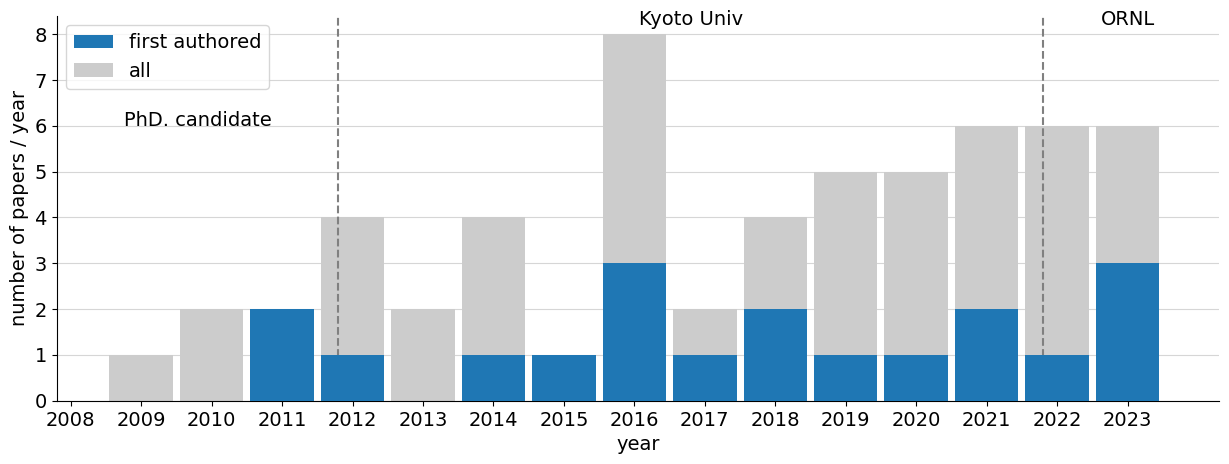
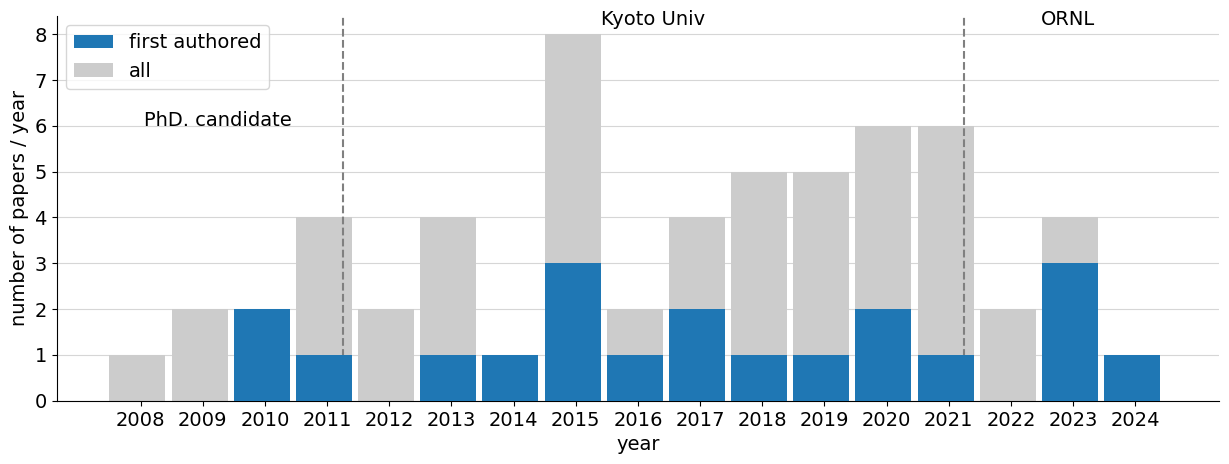
Updating after RSI publication

Changed region(s): [[0.0309, 0.0302, 0.9585, 0.9353], [0.8348, 0.0, 0.9585, 0.0603], [0.0928, 0.2414, 0.2474, 0.2716]]

diff --git a/make_figures.py b/make_figures.py
@@ -7,6 +7,8 @@ import seaborn as sns
 
 matplotlib.rc('font', size=14)
 
+bins = np.arange(2007, datetime.date.today().year + 1) + 0.5
+bin_centers = ((bins[1:] + bins[:-1]) / 2).astype(int)
 
 # Events
 positions = [
@@ -51,12 +53,10 @@ for i in range(0, len(lines) - 5, 5):
     papers.append(1)
 years = np.concatenate([first_years, coaut_years])
 
-bins = np.arange(np.min(years), np.max(years) + 1)
-
 plt.figure(figsize=(15, 5))
 plt.hist(first_years, bins=bins, color='C0', width=0.9, label='first authored', zorder=3)
 plt.hist(years, bins=bins, color='0.8', width=0.9, label='all', zorder=1,)
-plt.xticks(bins - 0.55, ['{}'.format(b) for b in bins]) 
+plt.xticks(bin_centers, ['{}'.format(b) for b in bin_centers]) 
 plt.gca().yaxis.grid(color='0.8', alpha=0.8)
 plt.xlabel('year')
 plt.ylabel('number of papers / year')
@@ -100,7 +100,7 @@ plt.figure(figsize=(15, 5))
 plt.hist(years, bins=bins, color='0.8', width=0.9, label='poster', zorder=1)
 plt.hist([y for y, t in zip(years, talk_types) if t in ['oral', 'invited']], bins=bins, color='C0', width=0.9, label='oral', zorder=2)
 plt.hist([y for y, t in zip(years, talk_types) if t == 'invited'], bins=bins, color='C1', width=0.9, label='invited', zorder=3)
-plt.xticks(bins - 0.55, ['{}'.format(b) for b in bins]) 
+plt.xticks(bin_centers, ['{}'.format(b) for b in bin_centers]) 
 plt.gca().yaxis.grid(color='0.8', alpha=0.8)
 plt.xlabel('year')
 plt.gca().yaxis.set_major_locator(MaxNLocator(integer=True))
@@ -140,7 +140,7 @@ for line in lines[1:]:
 
 plt.figure(figsize=(15, 5))
 plt.hist(years, bins=bins, color='C0', width=0.9)
-plt.xticks(bins - 0.55, ['{}'.format(b) for b in bins]) 
+plt.xticks(bin_centers, ['{}'.format(b) for b in bin_centers]) 
 plt.gca().yaxis.grid(color='0.8', alpha=0.8)
 plt.xlabel('year')
 plt.gca().yaxis.set_major_locator(MaxNLocator(integer=True))

diff --git a/publications/index.md b/publications/index.md
@@ -29,97 +29,102 @@ layout: publications
 <a href="https://doi.org/10.1063/1.4863650">10.1063/1.4863650</a>  
 
 # List of papers (first- and corresponding-author)
-1. **Plasma-parameter dependence of ro-vibrational temperatures for H2 in LHD divertor**  
+1. **Conceptual design of a Doppler spectrometer for 102 m/s cross-field flows in tokamak divertors**  
+ **<u>K. Fujii</u>**, R. Sano, T. Nakano, G. Ronchi, J.-S. Park, J. D. Lore, M. Shafer, T. M. Biewer  
+ *Review of Scientific Instruments* **95,** 073527 (2024)  
+<a href="https://doi.org/10.1063/5.0219456">10.1063/5.0219456</a>  
+
+2. **Plasma-parameter dependence of ro-vibrational temperatures for H2 in LHD divertor**  
  **<u>Keisuke Fujii</u>**, Tsubasa Oshioka, Atsushi Niihama, Arseniy Kuzmin, Taiichi Shikama, Masahiro Kobayashi, Masahiro Hasuo  
  *Journal of Quantitative Spectroscopy and Radiative Transfer* **310,** 108751 (2023)  
 <a href="https://doi.org/10.1016/j.jqsrt.2023.108751">10.1016/j.jqsrt.2023.108751</a>  
 
-2. **Collisional-energy-cascade model for nonthermal velocity distributions of neutral atoms in plasmas**  
+3. **Collisional-energy-cascade model for nonthermal velocity distributions of neutral atoms in plasmas**  
  **<u>Keisuke Fujii</u>**  
  *Physical Review E* **108,** 025204 (2023)  
 <a href="https://doi.org/10.1103/PhysRevE.108.025204">10.1103/PhysRevE.108.025204</a>  
 
-3. **A simple data-driven level finding method of many-electron atoms and heavy nuclei based on statistical outlier detection**  
+4. **A simple data-driven level finding method of many-electron atoms and heavy nuclei based on statistical outlier detection**  
  Kazuaki Hongu, **<u>Keisuke Fujii</u>**  
  *Journal of Physics D: Applied Physics* **56,** 244002 (2023)  
 <a href="https://doi.org/10.1088/1361-6463/acc66f">10.1088/1361-6463/acc66f</a>  
 
-4. **Power-Law Intensity Distribution of γ-Decay Cascades: Nuclear Structure as a Scale-Free Random Network**  
+5. **Power-Law Intensity Distribution of γ-Decay Cascades: Nuclear Structure as a Scale-Free Random Network**  
  **<u>Keisuke Fujii</u>**, Julian C. Berengut  
  *Physical Review Letters* **126,** 102502 (2021)  
 <a href="https://doi.org/10.1103/PhysRevLett.126.102502">10.1103/PhysRevLett.126.102502</a>  
 
-5. **Population kinetics of many-electron atoms in ionizing plasmas studied using a continuous collisional radiative model**  
+6. **Population kinetics of many-electron atoms in ionizing plasmas studied using a continuous collisional radiative model**  
  Akira Nishio, Julian C. Berengut, Masahiro Hasuo, **<u>Keisuke Fujii</u>**  
  *Physical Review E* **102,** 053211 (2020)  
 <a href="https://doi.org/10.1103/PhysRevE.102.053211">10.1103/PhysRevE.102.053211</a>  
 
-6. **Simple Explanation for the Observed Power Law Distribution of Line Intensity in Complex Many-Electron Atoms**  
+7. **Simple Explanation for the Observed Power Law Distribution of Line Intensity in Complex Many-Electron Atoms**  
  **<u>Keisuke Fujii</u>**, Julian C. Berengut  
  *Physical Review Letters* **124,** 185002 (2020)  
 <a href="https://doi.org/10.1103/physrevlett.124.185002">10.1103/physrevlett.124.185002</a>  
 
-7. **Robust Regression for Automatic Fusion Plasma Analysis Based on Generative Modeling**  
+8. **Robust Regression for Automatic Fusion Plasma Analysis Based on Generative Modeling**  
  **<u>K. Fujii</u>**, C. Suzuki, M. Hasuo  
  *IEEE Transactions on Plasma Science* **47,** 3305-3314 (2019)  
 <a href="https://doi.org/10.1109/TPS.2019.2921073">10.1109/TPS.2019.2921073</a>  
 
-8. **Machine Learning of Noise in LHD Thomson Scattering System**  
+9. **Machine Learning of Noise in LHD Thomson Scattering System**  
  **<u>Keisuke Fujii</u>**, Ichihiro Yamada, Masahiro Hasuo  
  *Fusion Science and Technology* **74,** 57-64 (2018)  
 <a href="https://doi.org/10.1080/15361055.2017.1396179">10.1080/15361055.2017.1396179</a>  
 
-9. **Experimental evaluation of fractional abundance data for W23+–W28+**  
+10. **Experimental evaluation of fractional abundance data for W23+–W28+**  
  **<u>Keisuke Fujii</u>**, Daiji Kato, Nobuyuki Nakamura, Motoshi Goto, Shigeru Morita, Masahiro Hasuo  
  *Journal of Physics B: Atomic, Molecular and Optical Physics* **50,** 055004 (2017)  
 <a href="https://doi.org/10.1088/1361-6455/50/5/055004">10.1088/1361-6455/50/5/055004</a>  
 
-10. **Data-driven sensitivity inference for Thomson scattering electron density measurement systems**  
+11. **Data-driven sensitivity inference for Thomson scattering electron density measurement systems**  
  **<u>Keisuke Fujii</u>**, Ichihiro Yamada, Masahiro Hasuo  
  *Review of Scientific Instruments* **88,** 013508 (2017)  
 <a href="https://doi.org/10.1063/1.4974344">10.1063/1.4974344</a>  
 
-11. **Inversion Methods of the Balmer-α Line Profile for Hydrogen Atom Density Evaluation in High-Temperature Plasmas**  
+12. **Inversion Methods of the Balmer-α Line Profile for Hydrogen Atom Density Evaluation in High-Temperature Plasmas**  
  **<u>Keisuke Fujii</u>**, Motoshi Goto, Shigeru Morita, Masahiro Hasuo  
  *Fusion Science and Technology* **69,** 514-525 (2016)  
 <a href="https://doi.org/10.13182/FST15-168">10.13182/FST15-168</a>  
 
-12. **Visible emission spectroscopy of highly charged tungsten ions in LHD: II. Evaluation of tungsten ion temperature**  
+13. **Visible emission spectroscopy of highly charged tungsten ions in LHD: II. Evaluation of tungsten ion temperature**  
  **<u>K Fujii</u>**, Y Takahashi, Y Nakai, D Kato, M Goto, S Morita, M Hasuo  
  *Physica Scripta* **90,** 125403 (2015)  
 <a href="https://doi.org/10.1088/0031-8949/90/12/125403">10.1088/0031-8949/90/12/125403</a>  
 
-13. **Visible emission spectroscopy of highly charged tungsten ions in LHD: I. Survey of new visible emission lines**  
+14. **Visible emission spectroscopy of highly charged tungsten ions in LHD: I. Survey of new visible emission lines**  
  M Shinohara, **<u>K Fujii</u>**, D Kato, N Nakamura, M Goto, S Morita, M Hasuo  
  *Physica Scripta* **90,** 125402 (2015)  
 <a href="https://doi.org/10.1088/0031-8949/90/12/125402">10.1088/0031-8949/90/12/125402</a>  
 
-14. **Study of neutral hydrogen transport in LHD core plasmas based on high dynamic-range Balmer-αspectroscopy**  
+15. **Study of neutral hydrogen transport in LHD core plasmas based on high dynamic-range Balmer-αspectroscopy**  
  **<u>K. Fujii</u>**, M. Goto, S. Morita,  The LHD Experiment Group  
  *Nuclear Fusion* **55,** 063029 (2015)  
 <a href="https://doi.org/10.1088/0029-5515/55/6/063029">10.1088/0029-5515/55/6/063029</a>  
 
-15. **Development of a high dynamic range spectroscopic system for observation of neutral hydrogen atom density distribution in Large Helical Device core plasma**  
+16. **Development of a high dynamic range spectroscopic system for observation of neutral hydrogen atom density distribution in Large Helical Device core plasma**  
  **<u>K. Fujii</u>**, S. Atsumi, S. Watanabe, T. Shikama, M. Goto, S. Morita, M. Hasuo  
  *Review of Scientific Instruments* **85,** 023502 (2014)  
 <a href="https://doi.org/10.1063/1.4863650">10.1063/1.4863650</a>  
 
-16. **Hydrogen transport diagnostics by atomic and molecular emission line profiles simultaneously measured for large helical device**  
+17. **Hydrogen transport diagnostics by atomic and molecular emission line profiles simultaneously measured for large helical device**  
  **<u>K. Fujii</u>**, T. Shikama, M. Goto, S. Morita, M. Hasuo  
  *Physics of Plasmas* **20,** 012514 (2013)  
 <a href="https://doi.org/10.1063/1.4789454">10.1063/1.4789454</a>  
 
-17. **A Collisional-Radiative Model for Hydrogen Atom Including Velocity Changing Collisions**  
+18. **A Collisional-Radiative Model for Hydrogen Atom Including Velocity Changing Collisions**  
  **<u>Keisuke FUJII</u>**, Taiichi SHIKAMA, Keiji SAWADA, Motoshi GOTO, Shigeru MORITA, Masahiro HASUO  
  *Plasma and Fusion Research* **6,** 2401125-2401125 (2011)  
 <a href="https://doi.org/10.1585/pfr.6.2401125">10.1585/pfr.6.2401125</a>  
 
-18. **Kinetic energy measurement of hydrogen in LHD peripheral plasma with a multi-wavelength-range fine-resolution spectrometer**  
+19. **Kinetic energy measurement of hydrogen in LHD peripheral plasma with a multi-wavelength-range fine-resolution spectrometer**  
  **<u>Keisuke Fujii</u>**, Keisuke Mizushiri, Tomomi Nishioka, Taiichi Shikama, Atsushi Iwamae, Motoshi Goto, Shigeru Morita, Masahiro Hasuo  
  *Nuclear Instruments and Methods in Physics Research Section A: Accelerators, Spectrometers, Detectors and Associated Equipment* **623,** 690-692 (2010)  
 <a href="https://doi.org/10.1016/j.nima.2010.02.100">10.1016/j.nima.2010.02.100</a>  
 
-19. **Development of multiwavelength-range fine-resolution spectrometer for hydrogen emissions and its application to large helical device periphery plasmas**  
+20. **Development of multiwavelength-range fine-resolution spectrometer for hydrogen emissions and its application to large helical device periphery plasmas**  
  **<u>K. Fujii</u>**, K. Mizushiri, T. Nishioka, T. Shikama, A. Iwamae, M. Goto, S. Morita, S Kado, K. Sawada, M. Hasuo  
  *Review of Scientific Instruments* **81,** 033106 (2010)  
 <a href="https://doi.org/10.1063/1.3356730">10.1063/1.3356730</a>  

diff --git a/talks/index.md b/talks/index.md
@@ -6,95 +6,115 @@ layout: talks
 
 ## Invited talks
 
-1. **Simple Explanation for the Observed Power Law Distribution of Line Intensity in Complex Many-Electron Atoms and Heavy Nuclei**  
+1. **Validating Collision-Radiation-Predissociation Dataset for Molecular Hydrogen with visible emission spectra**  
+*IAEA Technical Meeting on the Collisional-Radiative Properties of Tungsten and Hydrogen in Edge Plasma of Fusion Devices*  
+Vienna, Austria, 2023. Nov.28-Dec.01
+
+2. **Simple Explanation for the Observed Power Law Distribution of Line Intensity in Complex Many-Electron Atoms and Heavy Nuclei**  
 *Atomic Processes in Plasmas*  
 Vienna, Austria, 2023. May.15-May.19
 
-2. **Bayesian Inference for the LHD Experiment Data**  
+3. **Bayesian Inference for the LHD Experiment Data**  
 *IAEA Technical Meeting on Uncertainty Assessment and Benchmark Experiments for Atomic and Molecular Data for Fusion Applications*  
 Vienna, Austria, 2016. Dec.19-Dec.21
 
-3. **Neutral Hydrogen Dynamics in Fusion Core Plasmas Revealed by High Dynamic Range Balmer-α Spectroscopy**  
+4. **Neutral Hydrogen Dynamics in Fusion Core Plasmas Revealed by High Dynamic Range Balmer-α Spectroscopy**  
 *9th International Conference on Atomic and Molecular Data and Their Applications*  
 Jena, Germany, 2014. Sep.21-Sep.25
 
 ## Oral talks
 
-1. **Finding Key Diagnostic Lines for Divertor Molecular Dynamics based on Principal Component Analysis**  
+1. **Experimental Validation of Collision-Radiation-Predissociation Dataset for Molecular Hydrogen and Its Application to Divertor Diagnostics**  
+*APS DPP*  
+Denver CO, United States, 2023. Oct.30-Nov.03
+
+2. **Finding Key Diagnostic Lines for Divertor Molecular Dynamics based on Principal Component Analysis**  
 *Atomic Processes in Plasmas*  
 Vienna, Austria, 2023. May.15-May.19
 
-2. **Steady-state Velocity Distribution of Neutral Atoms with Energy Dissipation**  
+3. **Conceptual Design of Ion Temperature Diagnostics for the PI4 device at General Fusion**  
 *APS Division of Plasma Physics*  
 Spokane, United States, 2022. Oct.17-Oct.21
 
-3. **Power-Law Distribution of Line Intensity in Complex Many-Electron Atoms**  
+4. **Steady-state Velocity Distribution of Neutral Atoms with Energy Dissipation**  
+*APS Division of Plasma Physics*  
+Spokane, United States, 2022. Oct.17-Oct.21
+
+5. **Power-Law Distribution of Line Intensity in Complex Many-Electron Atoms**  
 *APS Division of Atomic Molecular and Optical Physics*  
 Online, United States, 2021. May.31-Jun.04
 
-4. **Electron Density Estimation from Multichannel Laser Interferometer Measurement in LHD with Systematic Bias Compensation**  
+6. **Electron Density Estimation from Multichannel Laser Interferometer Measurement in LHD with Systematic Bias Compensation**  
 *3rd IAEA Technical Meeting on Fusion Data Processing Validation and Analysis*  
 Vienna, Austria, 2019. May.28-May.31
 
-5. **Statistical completion and validation of the NIST Atomic Spectral Database**  
+7. **Statistical completion and validation of the NIST Atomic Spectral Database**  
 *DPG annual conference (Rostock 2019)*  
 Rostock, Germany, 2019. Mar.11-Mar.15
 
-6. **Experimental evaluation of fractional abundance data for W23+ - W28+**  
+8. **Experimental evaluation of fractional abundance data for W23+ - W28+**  
 *The 7 th China-Japan-Korea Joint Seminar on Atomic and Molecular Processes in Plasma (AMPP2018)*  
 Hefei, China, 2018. Jun.24-Jun.26
 
-7. **Automatic Fusion Plasma Data Analysis based on Bayesian Statistics**  
+9. **Automatic Fusion Plasma Data Analysis based on Bayesian Statistics**  
 *1st International Conference on Data-Driven Plasma Science*  
 York, UK, 2018. Jun.11-Jun.13
 
-8. **Machine Learning of Noise in LHD Thomson Scattering System**  
+10. **Machine Learning of Noise in LHD Thomson Scattering System**  
 *2nd IAEA Technical Meeting on the Fusion Data Processing; Validation and Analysis*  
 Boston, USA, 2017. May.30-Jun.02
 
-9. **Measurement of the neutral hydrogen atom density in the LHD core plasmas based on the spectral inversion**  
+11. **Measurement of the neutral hydrogen atom density in the LHD core plasmas based on the spectral inversion**  
 *1st IAEA Technical Meeting on Fusion Data Processing; Validation and Analysis*  
 Nice, France, 2015. Jun.01-Jun.03
 
-10. **Hydrogen atomic and molecular emission locations and intensities in the LHD edge plasma determined from simultaneously observed polarization spectra**  
+12. **Hydrogen atomic and molecular emission locations and intensities in the LHD edge plasma determined from simultaneously observed polarization spectra**  
 *24th International Toki Conference (ITC-24)*  
 Toki, Japan, 2014. Nov.04-Nov.07
 
 ## Posters
 
-1. **Stable energy distribution of radical atoms under collisional energy cascade**  
+1. **Plasma diagnostics based on molecular hydrogen spectrum with detailed collisional-radiative modeling**  
+*26th International Conference on Plasma Surface Interaction in Controlled Fusion Devices*  
+Marseille, France, 2024. May.12-May.17
+
+2. **Conceptual Design of a Doppler Spectrometry for 102-m/s Cross-Field Flows in Tokamak Divertors**  
+*25th Topical Conference on High Temperature Plasma Diagnostics*  
+Asheville NC, United States, 2024. Apr.21-Apr.25
+
+3. **Stable energy distribution of radical atoms under collisional energy cascade**  
 *second annual MagNetUS meeting*  
 Williamsburg, United States, 2022. Jun.07-Jun.10
 
-2. **Statistical Completion and Validation of Atomic Energy Level Database Based on Low Rank Nature of Isoelectronic Sequence**  
+4. **Statistical Completion and Validation of Atomic Energy Level Database Based on Low Rank Nature of Isoelectronic Sequence**  
 *2nd International Conference on Data-Driven Plasma Science*  
 Marseille, France, 2019. May.13-May.17
 
-3. **Automatic Robust Regression Analysis of Fusion Plasma Experiment Data based on Generative Modelling**  
+5. **Automatic Robust Regression Analysis of Fusion Plasma Experiment Data based on Generative Modelling**  
 *45th Conference on Plasma Physics (EPS 2018)*  
 Prague, the Czech Republic, 2018. Jun.02-Jun.06
 
-4. **Study of Neutral Hydrogen Transport in LHD Core Plasmas Based on High Dynamic-Range Balmer-α Spectroscopy**  
+6. **Study of Neutral Hydrogen Transport in LHD Core Plasmas Based on High Dynamic-Range Balmer-α Spectroscopy**  
 *25th IAEA Fusion Energy Conference*  
 St. Petersburg, Russian Ferderation, 2014. Oct.13-Oct.18
 
-5. **Electron Density Dependence of the Neutral Hydrogen Atom Transport in LHD Core Plasmas Studied by Balmer-α Spectroscopy**  
+7. **Electron Density Dependence of the Neutral Hydrogen Atom Transport in LHD Core Plasmas Studied by Balmer-α Spectroscopy**  
 *9th Asia Plasma Fusion and Fusion Association Conference*  
 Gyeongju City, Korea, 2013. Nov.05-Nov.08
 
-6. **Comparison of Balmer-α and -β Line Intensities and Shapes with a Monte-Carlo Neutral Transport Calculation of Large Helical Device**  
+8. **Comparison of Balmer-α and -β Line Intensities and Shapes with a Monte-Carlo Neutral Transport Calculation of Large Helical Device**  
 *20th International Conference on Spectral Line Shapes*  
 Newfoundland, Canada, 2010. Jun.06-Jun.11
 
-7. **Kinetic Energy Measurement of Hydrogen in LHD Peripheral Plasma with a Multi-wavelength-range Fine-resolution Spectrometer**  
+9. **Kinetic Energy Measurement of Hydrogen in LHD Peripheral Plasma with a Multi-wavelength-range Fine-resolution Spectrometer**  
 *1st International Conference on Frontiers in Diagnostic*  
 Frascati, Italy, 2009. Nov.24-Nov.27
 
-8. **Development of a Multi-wavelength-range High-resolution Spectrometer for Hydrogen Emissions and its Application to the LHD Edge Plasma**  
+10. **Development of a Multi-wavelength-range High-resolution Spectrometer for Hydrogen Emissions and its Application to the LHD Edge Plasma**  
 *16th International Conference on Atomic Processes in Plasmas*  
 Monteley, USA, 2009. Mar.22-Mar.26
 
-9. **Spectroscopic Diagnostics of helium discharge produced during sucrose triboluminescence**  
+11. **Spectroscopic Diagnostics of helium discharge produced during sucrose triboluminescence**  
 *14th International Congress on Plasma Physics (ICPP)*  
 Fukuoka, Japan, 2008. Sep.08-Sep.12
 
